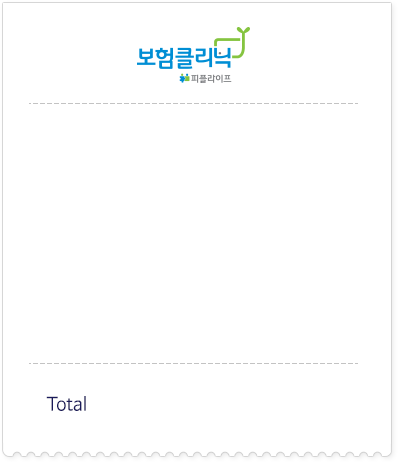
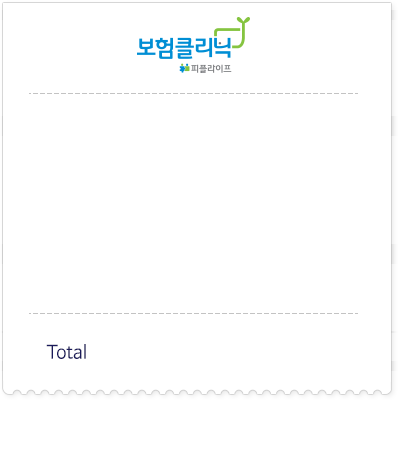
contents 높이 수정

diff --git a/css/visits/main_2020.css b/css/visits/main_2020.css
@@ -155,10 +155,10 @@
 #secVisual.active .swiper-slide .bg {opacity:1}
 
 /* 서비스 소개 */
-#secService {overflow:hidden;position:relative;height:970px}
-#secService::before {content:'';position:absolute;bottom:0;left:0;right:40%;height:481px;background-color:#87a4f7;transition:background-color 1s ease-in-out;transition:background-color 0.4s}
-#secService .inner::before {content:'';position:absolute;bottom:-142px;right:-144px;width:767px;height:767px;border-radius:100%;background:0 0 no-repeat;background-size:cover;transition:all 0.4s}
-#secService .tit_section {margin-bottom:80px;padding-top:80px;font-size:28px;font-weight:bold;text-align:center}
+#secService {overflow:hidden;position:relative;height:800px}
+#secService::before {content:'';position:absolute;bottom:0;left:0;right:40%;height:400px;background-color:#87a4f7;transition:background-color 1s ease-in-out;transition:background-color 0.4s}
+#secService .inner::before {content:'';position:absolute;bottom:-142px;right:-74px;width:650px;height:650px;border-radius:100%;background:0 0 no-repeat;background-size:cover;transition:all 0.4s}
+#secService .tit_section {margin-bottom:60px;padding-top:60px;font-size:28px;font-weight:bold;text-align:center}
 #secService .tab {margin-bottom:25px}
 #secService .tab .btn_tab {margin-right:45px;font-family:'CenturyGothic';font-size:22px;font-weight:bold;color:#a3a3a6}
 #secService .tab .btn_tab.on {transition:color 0.8s;animation:serviceTabOn 0.8s forwards ease-in-out}
@@ -210,13 +210,13 @@
 #secService[data-tab="2"] .tit_slide strong {color:#40be6f}
 
 /* 서비스 소개 - 첫번째 탭 */
-#secService .msg {position:absolute;top:293px;left:120px}
+#secService .msg {position:absolute;top:250px;left:120px}
 #secService .msg .tit_msg {margin-bottom:68px;font-size:30px;color:#1e2cad;line-height:1.3em;opacity:0;transform:translateX(100px)}
 #secService .msg .desc_msg {font-size:20px;color:#fff;opacity:0;transform:translateX(100px)}
 #secService .msg .tit_thumb {position:absolute;top:380px;left:300px;font-size:18px;color:#fff;white-space:nowrap;}
 #secService .msg .borderline {position:absolute;top:110px;left:0;width:773px;height:2px;background-color:#fff}
 #secService .msg .borderline::after {content:'';position:absolute;top:-6px;right:0;width:14px;height:14px;border-radius:100%;background-color:#fff}
-#secService .swiper-pagination {top:775px;left:120px;opacity:0}
+#secService .swiper-pagination {top:695px;left:120px;opacity:0}
 #secService .swiper-pagination.on {opacity:1}
 #secService .swiper-pagination-bullet {width:15px;height:4px;margin-right:8px;border-radius:2em;background-color:#fff}
 #secService .swiper-pagination-bullet-active {width:40px;}
@@ -232,7 +232,7 @@
 #secService[data-slide="3"] [data-swiper-slide-index="0"] .desc_msg {opacity:0;transform:translateX(100px)}
 
 /* 서비스 소개 - 두번째 탭 */
-#secService .compare {position: absolute;top:325px;left:100px}
+#secService .compare {position: absolute;top:255px;left:140px}
 #secService .compare .box_compare {float:left;position:relative;width:172px;height:247px;margin-right:29px;padding:20px 0 20px 17px;border:1px solid  #f0f0f0;background-color:#fff;opacity:0}
 #secService .compare .box_compare::before {content:'';position:absolute;bottom:-4px;;right:-4px;z-index:-1;width:100%;height:100%;border:1px solid  #f0f0f0;background-color:#fff}
 #secService .compare .box_compare::after {content:'';display:block;visibility:hidden;height:0;font-size:0;clear:both}
@@ -240,14 +240,14 @@
 #secService .compare .box_compare:nth-child(2) .tit_type {border-color:#ff8f3c}
 #secService .compare .desc_type {font-family:'KoPubWorldBatang';font-size:18px}
 #secService .compare .price {position:absolute;bottom:8px;right:15px;font-style:italic;font-size:22px;font-weight:bold}
-#secService .vs {position:absolute;top:400px;right:490px;font-family:'CenturyGothic',serif;font-style:italic;font-size:80px;color:#0db6c8;opacity:0}
-#secService .receipt {position:absolute;top:183px;right:16px}
+#secService .vs {position:absolute;top:320px;right:463px;font-family:'CenturyGothic',serif;font-style:italic;font-size:80px;color:#0db6c8;opacity:0}
+#secService .receipt {position:absolute;top:143px;right:33px}
 #secService .receipt2 {overflow:hidden;position:absolute;top:14px;left:23px}
 #secService .receipt2::before {content:'';position:absolute;top:3px;left:2px;right:6px;z-index:1;height:3px;background-color:rgba(0,0,0,0.3);filter:blur(3px)}
 #secService .receipt2 img {display:block;width:100%;height:auto;transform:translateY(-100%)}
-#secService .list_sum {position:absolute;z-index:1;top:130px;left:42px;width:303px}
-#secService .list_sum .item_sum {position:relative;margin-bottom:22px;;line-height:1em;opacity:0}
-#secService .list_sum .item_sum.lst {position:absolute;top:265px;right:0;font-size:24px;font-weight:bold;color:#e30f3c}
+#secService .list_sum {position:absolute;z-index:1;top:114px;left:42px;width:303px}
+#secService .list_sum .item_sum {position:relative;margin-bottom:15px;;line-height:1em;opacity:0}
+#secService .list_sum .item_sum.lst {position:absolute;top:225px;right:0;font-size:24px;font-weight:bold;color:#e30f3c}
 #secService .list_sum span {font-size:14px}
 #secService .list_sum strong {position: absolute;right:0;font-size:18px;font-weight:bold}
 #secService[data-slide="3"] .box_compare.type_a {opacity:1;transition:opacity 0.8s 0.4s}
@@ -266,12 +266,12 @@
 }
 
 /* 서비스 소개 - 세번째 탭 */
-#secService .notebook {position:absolute;bottom:210px;right:-119px;opacity:0;}
+#secService .notebook {position:absolute;bottom:150px;right:-49px;opacity:0;}
 #secService .notebook::before {content:'';position:absolute;top:43px;left:56px;z-index:1;width:595px;height:405px;background:url('/img/visits/main_2020/service_notebook_screen2.png') 0 0 no-repeat;opacity:0}
-#secService .notebook .smoke {overflow: hidden;;position:absolute;top:83px;right:166px;z-index:1;width:171px;height:228px}
+#secService .notebook .smoke {overflow: hidden;;position:absolute;top:53px;right:126px;z-index:1;width:171px;height:228px}
 #secService .notebook .smoke::before {content:'';position:absolute;width:100%;height:100%;background:url('/img/visits/main_2020/service_coffee_smoke2.png') 0 0 no-repeat;transform:translateY(50px);opacity:0;animation:serviceCoffee 6s 3s infinite linear}
 #secService .notebook .smoke::after {content:'';position:absolute;width:100%;height:100%;background:url('/img/visits/main_2020/service_coffee_smoke.png') 0 0 no-repeat;transform:translateY(50px);opacity:0;animation:serviceCoffee 6s infinite linear}
-#secService[data-slide="4"] .notebook {bottom:223px;opacity:1;transition:all 0.4s 0.2s linear}
+#secService[data-slide="4"] .notebook {bottom:163px;opacity:1;transition:all 0.4s 0.2s linear}
 #secService[data-slide="4"] .notebook::before {animation:serviceNotebook 5s infinite}
 @keyframes serviceNotebook {
     25%,100%        {opacity:0}
@@ -285,15 +285,15 @@
 }
 
 /* 전문가 네트워크 */
-#secNetwork {height:960px;background:url('/img/visits/main_2020/network_bg.jpg') center center no-repeat;background-size:cover}
-#secNetwork .tit_section {position:absolute;top:352px;left:68px;font-size:32px;font-weight:400;color:#fff}
+#secNetwork {height:800px;background:url('/img/visits/main_2020/network_bg.jpg') center center no-repeat;background-size:cover}
+#secNetwork .tit_section {position:absolute;top:274px;left:68px;font-size:32px;font-weight:400;color:#fff}
 #secNetwork .tit_section strong {display:block;font-size:44px}
 #secNetwork .list_network {position:relative;z-index:1}
 #secNetwork .item_network {position:absolute;display:flex;align-items:center;width:345px;height:136px;border-radius:6px;background-color:rgba(0,0,0,0)}
-#secNetwork .item_network:nth-child(1) {top:116px;left:512px}
+#secNetwork .item_network:nth-child(1) {top:86px;left:512px}
 #secNetwork .item_network:nth-child(2) {top:295px;left:1001px}
-#secNetwork .item_network:nth-child(3) {top:547px;left:350px}
-#secNetwork .item_network:nth-child(4) {top:665px;left:833px}
+#secNetwork .item_network:nth-child(3) {top:447px;left:350px}
+#secNetwork .item_network:nth-child(4) {top:595px;left:833px}
 #secNetwork .item_network .item_inner:first-child {width:155px;border-right:1px solid transparent}
 #secNetwork .item_network .item_inner:last-child {padding-left:33px}
 #secNetwork .box_ico {position:relative;height:auto;margin-bottom:5px;text-align:center;stroke:#fff;stroke-width:2px}
@@ -305,21 +305,21 @@
 #secNetwork .box_ico .ico4 {height:53px}
 #secNetwork .tit {font-size:16px;font-weight:700;color:#fff;text-align:center}
 #secNetwork .desc {font-size:16px;color:#d0d0d0;line-height:1.3em;opacity:0}
-#secNetwork .bg {position:absolute;top:274px;left:451px}
+#secNetwork .bg {position:absolute;top:244px;left:451px}
 #secNetwork .bg .line {width:652px;height:665px;stroke:#fff;stroke-width:1px;stroke-opacity:0.7;stroke-dasharray:3000;stroke-dashoffset:3000}
 #secNetwork .bg span {position:absolute;width:12px;height:12px;border-radius:100%;background:#fff;box-shadow:0 0 8px rgba(255,255,255,0.5);opacity:0}
 #secNetwork .bg span:nth-child(1) {top:-7px;left:143px}
-#secNetwork .bg span:nth-child(2) {top:172px;right:-4px}
-#secNetwork .bg span:nth-child(3) {top:426px;left:-5px}
-#secNetwork .bg span:nth-child(4) {top:545px;right:161px}
+#secNetwork .bg span:nth-child(2) {top:212px;right:-4px}
+#secNetwork .bg span:nth-child(3) {top:366px;left:-5px}
+#secNetwork .bg span:nth-child(4) {top:516px;right:161px}
 #secNetwork .item_network.on .ico.shadow {opacity:0;transition:opacity 0.5s}
 #secNetwork .item_network.on .box_ico #color {stroke:#f3ad36;transition:stroke 0.5s}
 #secNetwork .item_network.on .desc {opacity:1;transition:opacity 0.5s}
 
 /* 여러분의 보험 고민은 */
 #secWorry {background-color:#f4f5fb}
-#secWorry .inner {width:1092px;padding:85px 0 40px}
-#secWorry .tit_section {margin-bottom:50px;font-size:28px;font-weight:bold;text-align:center;}
+#secWorry .inner {width:1092px;padding:60px 0 10px}
+#secWorry .tit_section {margin-bottom:30px;font-size:28px;font-weight:bold;text-align:center;}
 #secWorry .tit_worry {height:55px;margin-bottom:15px;font-size:24px;text-align:center;line-height:1.3em}
 #secWorry .box_card {position:relative;z-index:1;width:268px;margin:0 auto;padding-top:10px;box-shadow:0 0 10px rgba(0,0,0,0.1)}
 #secWorry .box_card .profile {margin-bottom:5px;padding-left:17px;color:#fff}
@@ -327,11 +327,11 @@
 #secWorry .box_card .thumb {display:block;margin:0 auto 18px}
 #secWorry .worry {float:left;width:341px;margin-right:34px}
 #secWorry .worry.type_c {margin-right:0}
-#secWorry .worry .question {height:89px;padding:38px 0 0 40px;font-size:18px;line-height:1.3em;background:url('/img/visits/main_2020/worry_card_bg.jpg') 0 0 no-repeat;}
-#secWorry .worry .answer {position:relative;margin-top:-56px;padding:100px 0 0 28px}
-#secWorry .worry .answer .txt {font-size:20px;line-height:1.5em;opacity:0;transform:translateX(10%)}
-#secWorry .worry .answer .txt strong {font-size:26px;font-weight:bold;color:#Fff}
-#secWorry .worry .answer .model {position:absolute;z-index:1;bottom:-40px;opacity:0}
+#secWorry .worry .question {height:75px;padding:41px 0 0 31px;font-size:17px;line-height:1.3em;background:url('/img/visits/main_2020/worry_card_bg.jpg') 0 0 no-repeat;}
+#secWorry .worry .answer {position:relative;margin-top:-56px;padding:80px 0 0 28px}
+#secWorry .worry .answer .txt {font-size:18px;line-height:1.5em;opacity:0;transform:translateX(10%)}
+#secWorry .worry .answer .txt strong {font-size:24px;font-weight:bold;color:#Fff}
+#secWorry .worry .answer .model {position:absolute;z-index:1;bottom:-10px;opacity:0}
 #secWorry .worry.type_a .tit_worry strong {color:#266ee3}
 #secWorry .worry.type_b .tit_worry strong {color:#ed6639}
 #secWorry .worry.type_c .tit_worry strong {color:#0eb57c}
@@ -343,7 +343,7 @@
 #secWorry .worry.type_b .answer {height:393px;background-color:#e6893e}
 #secWorry .worry.type_c .answer {height:393px;background-color:#58d5aa}
 #secWorry .worry.type_a .answer .model {left:-5px}
-#secWorry .worry.type_b .answer .model {bottom:-55px}
+#secWorry .worry.type_b .answer .model {left:-5px;bottom:-25px}
 #secWorry .worry.type_c .answer .model {right:-5px}
 #secWorry.active .worry .answer .txt {opacity:1;transform:translateX(0);transition:0.6s all ease-in-out}
 #secWorry.active .worry.type_a .answer .txt:nth-child(1) {transition-delay:0s}
@@ -364,13 +364,13 @@
 #secWorry.active .worry.type_c .answer .model {transition-delay:4.8s}
 
 /* 수상내역 */
-#secAward {overflow:hidden;position:relative;padding:77px 0 90px}
+#secAward {overflow:hidden;position:relative;padding:50px 0 90px}
 #secAward::after {content:'';position:absolute;left:50%;bottom:90px;width:100%;height:1px;background-color:#dcdee1;transform:translateX(-50%)}
 #secAward .tit_section {font-size:28px;font-weight:700;text-align:center}
 
 /* 수상내역 - .swiper-container */
-#secAward .swiper-container,
-#secAward .swiper-container * {pointer-events:none}
+/* #secAward .swiper-container,
+#secAward .swiper-container * {pointer-events:none} */
 #secAward .tit_slide {position:absolute;top:160px;font-size:20px;color:#457dd8}
 #secAward .tit_slide.right {right:176px}
 #secAward .tit_slide.left {left:186px}

diff --git a/js/visits/main_2020.js b/js/visits/main_2020.js
@@ -216,10 +216,10 @@ $(function(){ // DOCUMENT READY...
                 var $count = $this.find('.count');
                 var $num = $this.find('.num');
                 var _countWidth = $count.width();
-                var _countNum = $num.html();
+                var _countNum = $num.html();                
 
                 $count.css('min-width',_countWidth);
-
+        
                 if ($num.hasClass('animateNumber')){
                     $num.animateNumber({
                         totalPlayTime : 600,
@@ -385,10 +385,10 @@ $(function(){ // DOCUMENT READY...
 
      // 본문
      var swiper = new Swiper($wrap.find('.swiper-container'), {
-        autoplay: {
-            delay: 3000,
-            disableOnInteraction : false,
-        },
+        // autoplay: {
+        //     delay: 3000,
+        //     disableOnInteraction : false,
+        // },
         fadeEffect: { crossFade: true },
         virtualTranslate: true,
         slidersPerView: 1,

diff --git a/js/visits/files.js b/js/visits/files.js
@@ -7,13 +7,13 @@ var fileList = [
     SERVER.fonts+'/fonts/CenturyGothic/CenturyGothic.css',
     SERVER.fonts+'/fonts/KoPubWorldBatang/KoPubWorldBatang.css',
     SERVER.fonts+'/fonts/HGGGothicssi/HGGGothicssi.css',
-    SERVER.fonts+'/fonts/IropkeBatang/IropkeBatang.css',    
+    SERVER.fonts+'/fonts/IropkeBatang/IropkeBatang.css',
     SERVER.public+'/lib/swiper/swiper.css',
     SERVER.public+'/css/reset.css',
     SERVER.public+'/css/common_pc.css',
     '/css/visits/common_2020.css',
-    '/lib/gsap/TweenMax.min.js',
-    SERVER.public+'/lib/swiper/swiper.js',    
+    SERVER.public+'/lib/tweenmax/tweenmax.js',
+    SERVER.public+'/lib/swiper/swiper.js',
     SERVER.public+'/js/modules.js',
     SERVER.public+'/js/public.js',
     SERVER.common+'/js/common.js',

diff --git a/index.html b/index.html
@@ -254,7 +254,7 @@
                 <div class="box_card">
                     <p class="profile">장*석 회사원 / 34세</p>
                     <img class="thumb" src="/img/visits/main_2020/worry_thumb1.jpg" alt="30대 남성">
-                    <p class="question">다들 <span>보험료</span>이정도 내나<br>궁금해요</p>
+                    <p class="question">다들 <span>보험료</span>이정도 내나 궁금해요</p>
                 </div>
                 <div class="answer">
                     <p class="txt">국내보험사의 모든 상품을 비교해</p>
